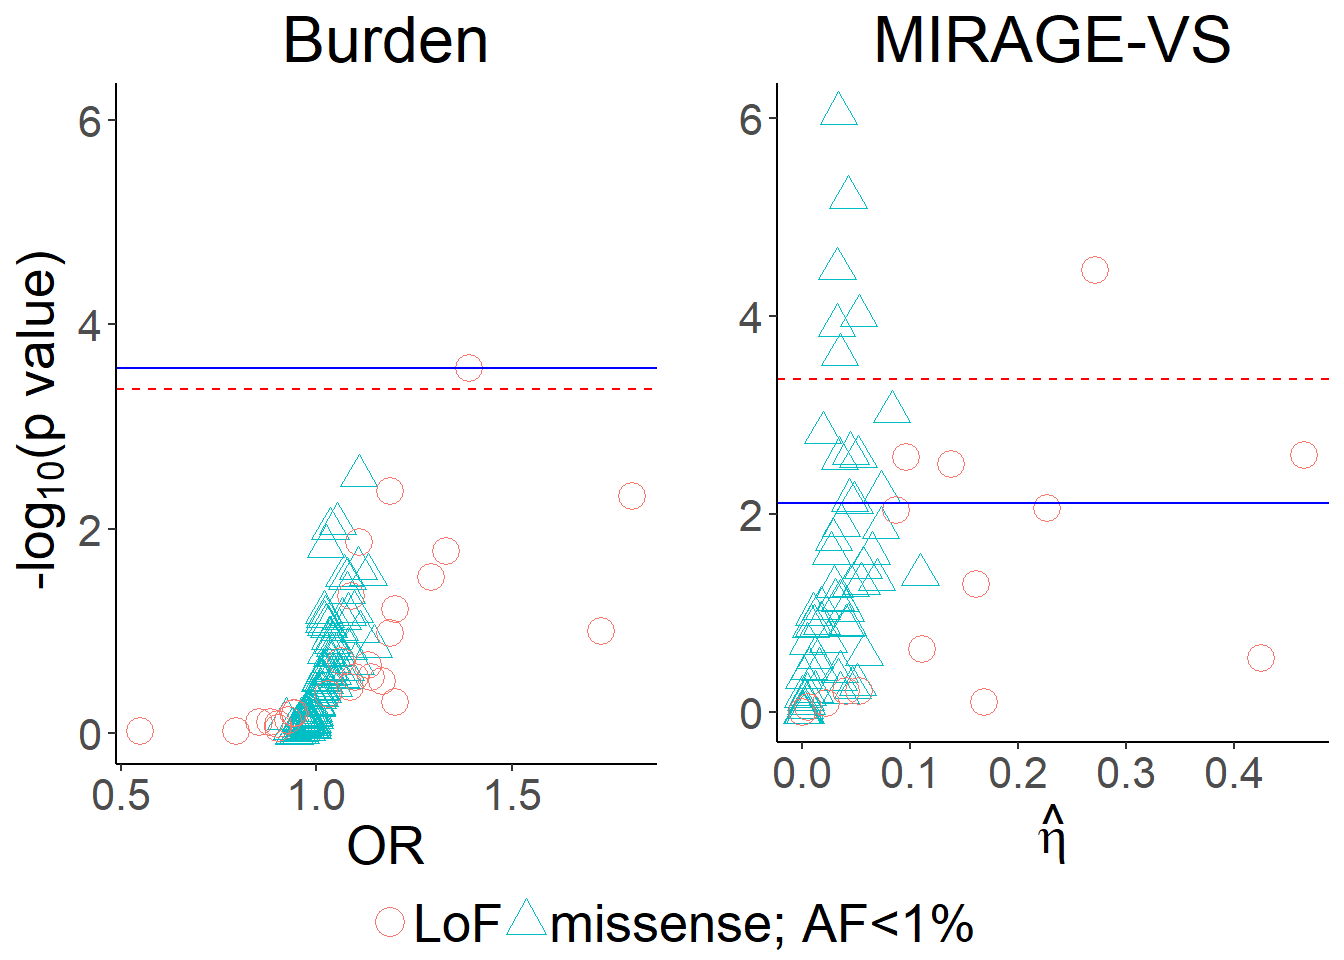
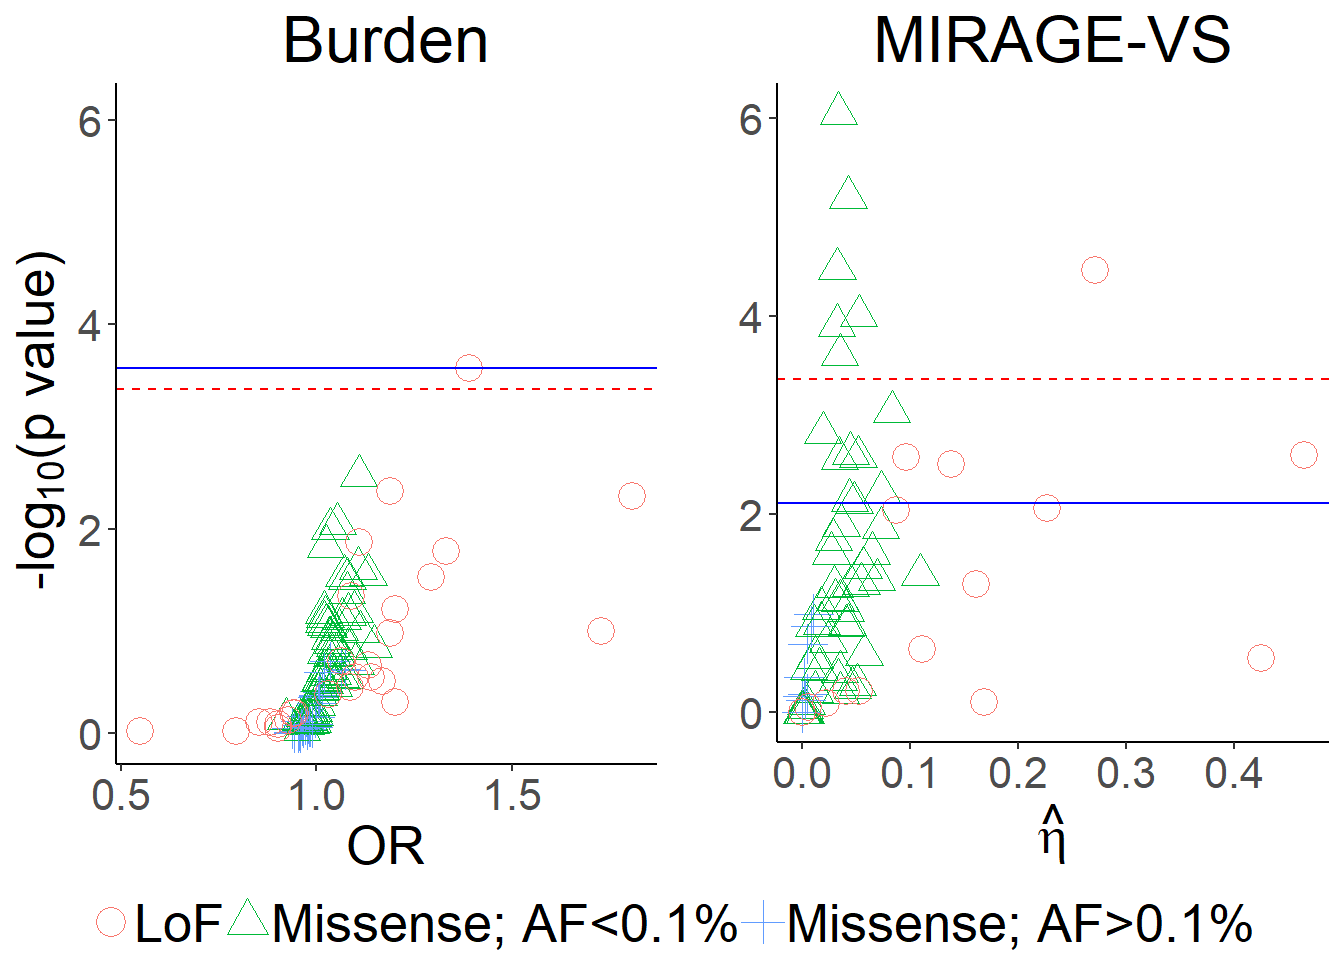
8/10/2019

diff --git a/docs/ASD.html b/docs/ASD.html
@@ -1623,7 +1623,7 @@ NaN
 <p>there are four variant categories and each combined feature belongs to one categories, depending on where the most variants are from.</p>
 <p><img src="ASD_files/figure-html/unnamed-chunk-13-1.png" width="672" /></p>
 <p>**** Below is damaging(4, replace consensus with SIFT)+AF(3 disjoint intervals)+gene.set(10)=120 combined features</p>
-<p>solid blue line is FDR 0.05 and dashed red line is Bonferroni correction p = 0.05/120(total number of tests). AF is using three cutoffs <span class="math inline">\(10^{-2}, 10^{-3}, 10^{-4}\)</span> disjoint. three variant groups: LoF; missense AF&lt;1%; missense AF&gt;1%</p>
+<p>solid blue line is FDR 0.05 and dashed red line is Bonferroni correction p = 0.05/120(total number of tests). AF is using three cutoffs <span class="math inline">\(10^{-2}, 10^{-3}, 10^{-4}\)</span> disjoint. three variant groups: LoF; missense AF&lt;0.1%; missense AF&gt;0.1%</p>
 <p><img src="ASD_files/figure-html/unnamed-chunk-14-1.png" width="672" /></p>
 <p>**** Below is damaging(4, replace consensus with SIFT)+AF(3 disjoint intervals)+gene.set(10)=120 combined features</p>
 <p>solid blue line is FDR 0.05 and dashed red line is Bonferroni correction p = 0.05/120(total number of tests). AF is using three cutoffs <span class="math inline">\(10^{-2}, 10^{-3}, 10^{-4}\)</span> disjoint. two variant groups: LoF and missense</p>
